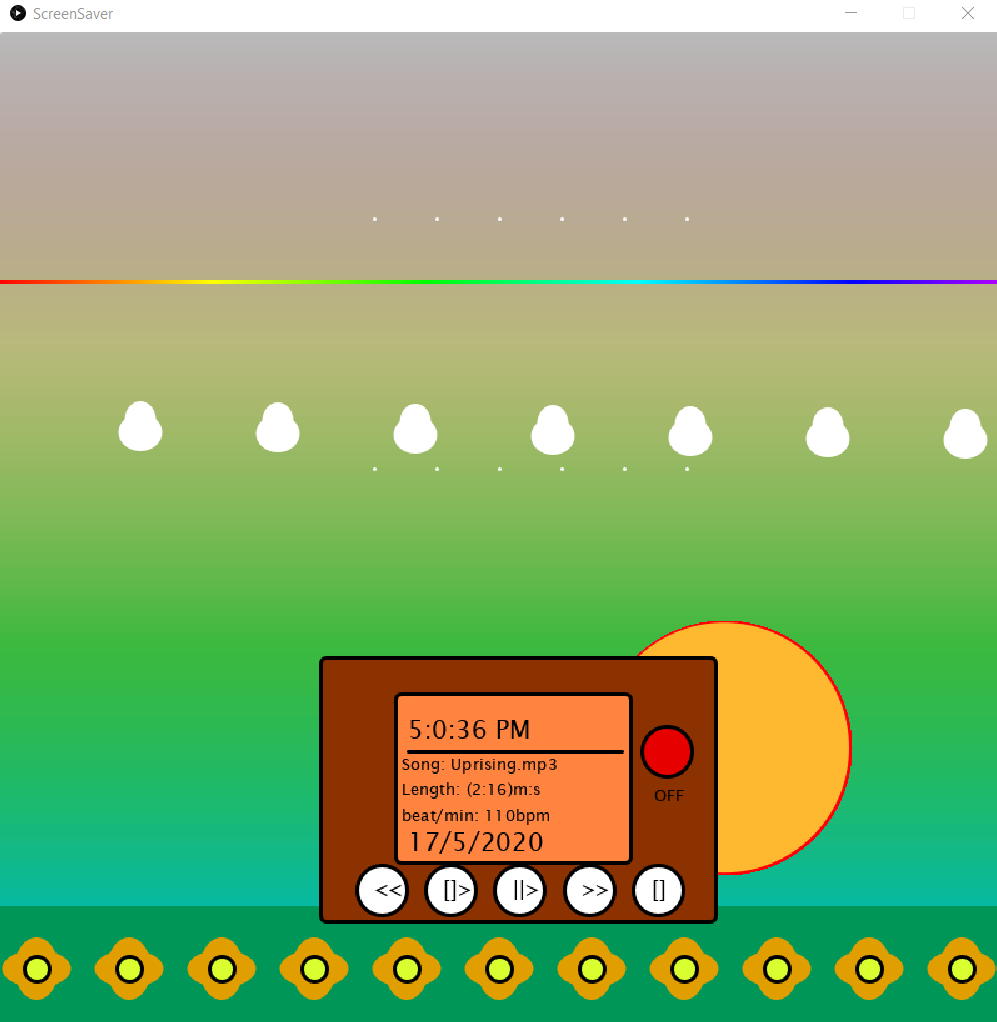
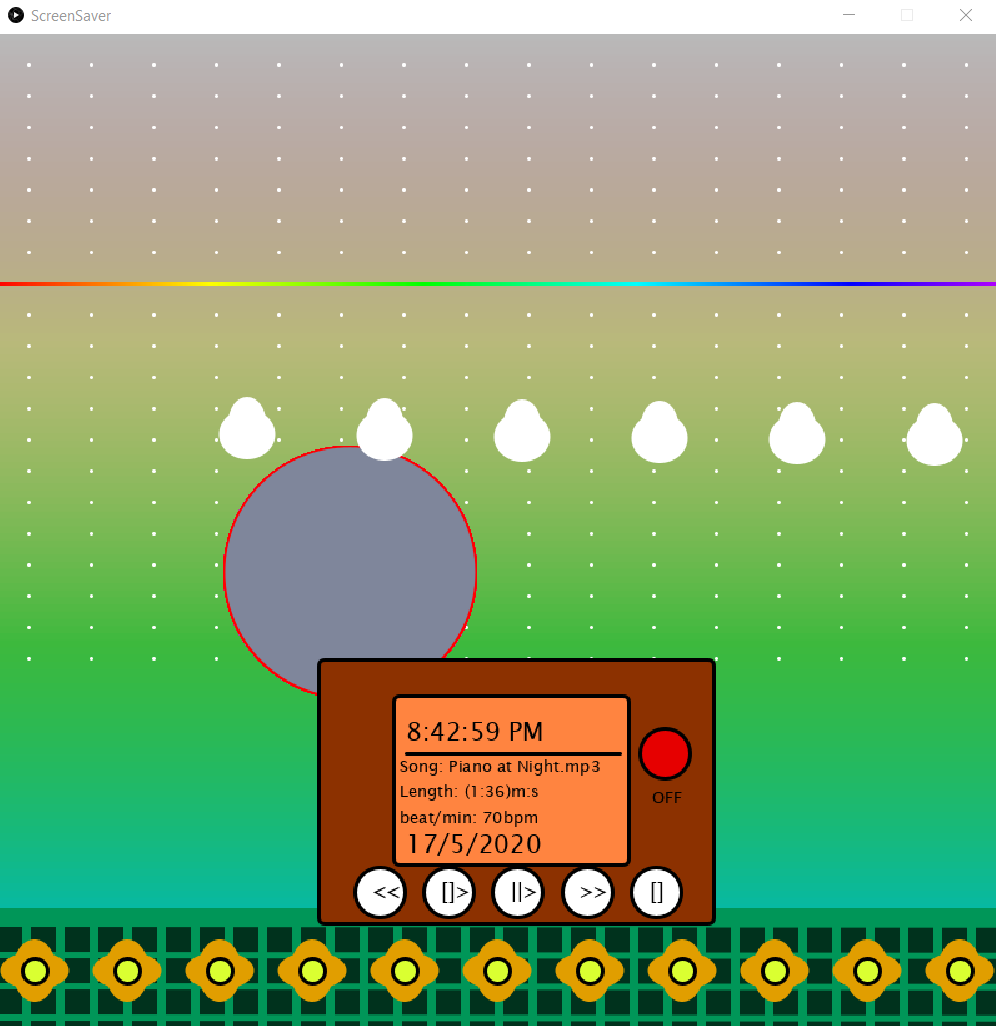
done,just finishing cleaning and the report

diff --git a/java/src/MusicVisualAssignment/D18124618_Salman_Alsamiri/screenSaver.java b/java/src/MusicVisualAssignment/D18124618_Salman_Alsamiri/screenSaver.java
@@ -1,8 +1,6 @@
 package MusicVisualAssignment.D18124618_Salman_Alsamiri;
 
 import java.util.ArrayList;
-
-import ddf.minim.AudioPlayer;
 import ddf.minim.analysis.FFT;
 import processing.data.Table;
 
@@ -16,15 +14,9 @@ public class ScreenSaver extends MyVisuals
 
     ArrayList <SongPlayList> tuneBox = new ArrayList<SongPlayList>();
     
-    public void settings()
-    {
-        size(800,800);
-    }   
-
     //Global objects & Variables 
     WaveForms wf;
     SongPlayList spl;
-    AudioBandsVisualPrint abvp;
     FFT fft;
     float w ;
     float wHalf;
@@ -34,6 +26,12 @@ public class ScreenSaver extends MyVisuals
     String musicFile; 
     int tuneOrder;
     int tunerKey;
+    
+    public void settings()
+    {
+        size(800,800);
+    }   
+
     public void setup()
     {   
         w = width*0.8f;
@@ -46,14 +44,12 @@ public class ScreenSaver extends MyVisuals
         musicFile="Morning Routine.mp3";
         tunerKey=0;
         colorMode(HSB);
-        setFrameSize(200);
         setSampleRate(44100);
         setFrameSize(1024);
         fft = new FFT(1, getSampleRate());
         startMinim();
         loadAudio(musicFile);
         wf = new WaveForms(this);
-        abv = new AudioBandsVisualPrint(this);
         calculateFrequencyBands();
         loadData();
         smooth();
@@ -90,13 +86,16 @@ public class ScreenSaver extends MyVisuals
         int hG=10+(int)h;
         noStroke();
         fill(110,255,150);
-        rect(0, 700, width, hG);
+        rect(0, 700, width, h);
         for(int i=0; i<width; i++)
         {
-
-            float xg =  map(i, 0, 10, 0, hG);
-            float yg =  map(i, 0, 10, 0, width);
-            point(xg, yg);
+            fill(110,255,50);
+            float xg =  map(i, 0, 30, 0, width+10);
+            float yg =  map(i, 0, h, h+350, hG+350);
+            square(xg, yg-35, 20);
+            square(xg, yg-10, 20);
+            square(xg, yg+15, 20);
+            square(xg, yg+40, 20);
         }
         
     }
@@ -119,7 +118,7 @@ public class ScreenSaver extends MyVisuals
         }
         
     }
-    //Add tuneBox keys control
+    
     public void keyPressed()
     {
         
@@ -265,8 +264,8 @@ public class ScreenSaver extends MyVisuals
         for(Starsky s:StarLine)
         {
             stroke(255,0,255);
-            point(s.getStarX(),s.getStarY());
-            point(s.getStarX2(),s.getStarY2());
+            point((s.getStarX()*getSmoothedAmplitude()+s.getStarX()),s.getStarY()*getSmoothedAmplitude()+s.getStarY());
+            point((s.getStarX2()*getSmoothedAmplitude()+s.getStarX2()),s.getStarY2()*getSmoothedAmplitude()+s.getStarY2());
 
         }
           
@@ -288,7 +287,7 @@ public class ScreenSaver extends MyVisuals
         }
         else
         {
-            fill(60,10,255);
+            fill(160,45,155);
         }
         
         ellipse(ellipseX, ellipseY, ellipseSize,ellipseSize);  
@@ -429,11 +428,9 @@ public class ScreenSaver extends MyVisuals
         sky();
         calculateAverageAmplitude();
         calculateFrequencyBands();
-        
         wf.render(elipseRX,elipseRY,ellipseRSize);
-        // abvp.render();
         SunAndMoon();
-        clouds(skyObj);
+        clouds(skyObj); 
         moveflyObj();
         grass();
         flowers();

diff --git a/java/src/MusicVisualAssignment/D18124618_Salman_Alsamiri/AudioBandsVisualPrint.java b/java/src/MusicVisualAssignment/D18124618_Salman_Alsamiri/AudioBandsVisualPrint.java
@@ -3,8 +3,7 @@ package MusicVisualAssignment.D18124618_Salman_Alsamiri;
 import processing.core.*;
 
 // This is an example of a visual that uses the audio bands
-public class AudioBandsVisualPrint
-{
+public class AudioBandsVisualPrint {
     ScreenSaver sS;
 
     public AudioBandsVisualPrint(ScreenSaver sS)
@@ -19,7 +18,7 @@ public class AudioBandsVisualPrint
         for(int i = 0 ; i < sS.getBands().length ; i ++)
         {
             sS.fill(PApplet.map(i, 0, sS.getBands().length, 255, 0), 255, 255);
-            sS.rect((i * gap)/4, sS.height/4, gap/4,(-sS.getSmoothedBands()[i] * 0.2f)/4); 
+            sS.rect(i * gap, sS.height, gap,-sS.getSmoothedBands()[i] * 0.2f); 
         }
     }
 }

diff --git a/java/src/MusicVisualAssignment/D18124618_Salman_Alsamiri/MyVisuals.java b/java/src/MusicVisualAssignment/D18124618_Salman_Alsamiri/MyVisuals.java
@@ -60,6 +60,6 @@ public class MyVisuals extends Visual
         // Call this is you want to get the average amplitude
         calculateAverageAmplitude();        
         // wf.render();
-        abv.render();
+        // abv.render();
     }
 }
